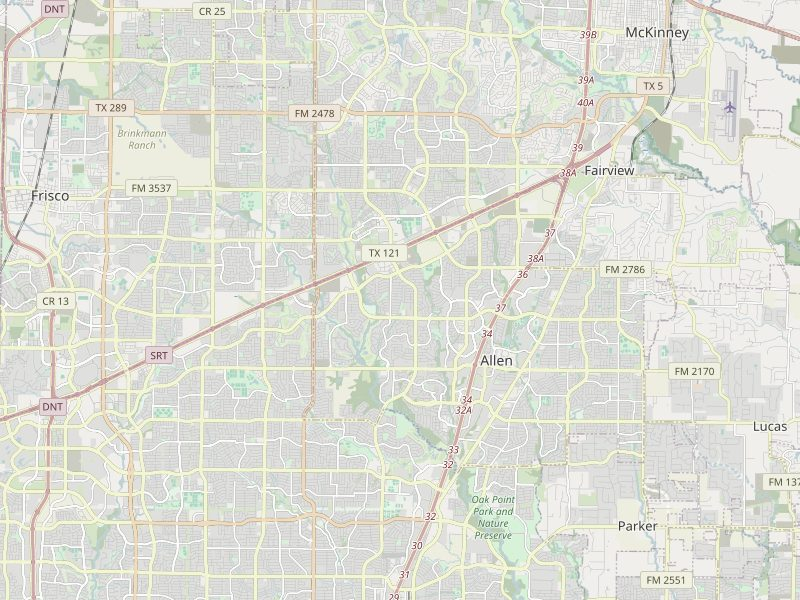
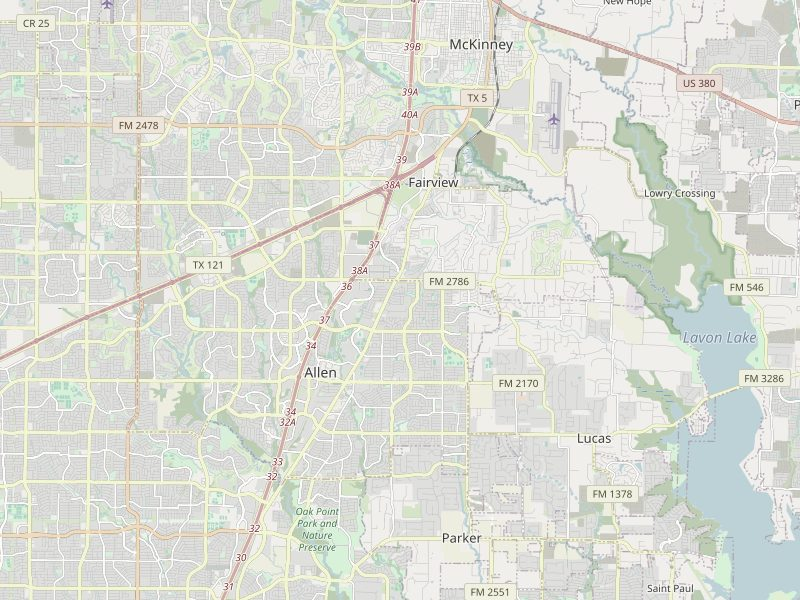
Full-width home map with the cities card and key map
- Home: the service-area map now spans the page. The cities we serve
  (Dallas, Carrollton and the rest) sit on a card at the left, the line
  map as a key at the top right; both stack above the map below 960 px.
  It uses a wide OpenStreetMap render in every build, since the cards
  would cover Google's own place card.
- City, area and contact maps: the key moves to the top-right corner;
  the static renders are reframed so no pins sit under it
- static_maps.py: each map sets its own size

diff --git a/static/assets/site.css b/static/assets/site.css
@@ -813,14 +813,14 @@ figure{margin:0}
 
 /* ── real map with the line map as its key ──────────────────────── */
 .map-duo{position:relative}
-.map-key{position:absolute;z-index:3;top:10px;left:10px;width:44%;padding:6px;background:var(--sheet);
+.map-key{position:absolute;z-index:3;top:10px;right:10px;width:44%;padding:6px;background:var(--sheet);
   border:1px solid var(--rule-2);box-shadow:0 2px 10px rgba(22,25,27,.12)}
 .map-key svg{display:block;width:100%;height:auto}
 .cv-key .cv-lbl{font-size:27px;letter-spacing:.03em}
 .cv-key .cv-sub{font-size:19px;letter-spacing:.05em}
 .cv-key .cv-road{stroke-width:2.2}
 .cv-key .cv-ring{stroke-width:2;stroke-dasharray:7 6}
-.map-real picture,.map-real img{position:absolute;inset:0;width:100%;height:100%;display:block}
+.map-real picture,.map-real img,.map-stage picture,.map-stage img{position:absolute;inset:0;width:100%;height:100%;display:block}
 .map-real img{object-fit:cover}
 .map-ring{position:absolute;inset:0;width:100%;height:100%;pointer-events:none}
 .map-ring circle{fill:rgba(160,85,42,.05);stroke:var(--cedar);stroke-width:2;stroke-dasharray:8 6}
@@ -848,6 +848,34 @@ figure{margin:0}
   .map-key{position:static;width:auto;margin-bottom:10px;box-shadow:none}
   .map-key ~ .map-box .pin.under-key{display:block}
   .pin > a,.pin > span{font-size:9.5px;padding:2px 5px 1px}
+}
+
+/* ── full-width map (home) ───────────────────────────────────────── */
+.map-sec{padding-bottom:clamp(40px,5vw,64px)}
+.map-wide{--mh:clamp(460px,46vw,680px);--edge:max(var(--gutter),calc((100% - var(--wrap)) / 2 + var(--gutter)));position:relative}
+.map-canvas{position:relative;height:var(--mh);overflow:hidden;background:var(--sheet-2);border-block:1px solid var(--rule-2)}
+.map-canvas iframe{position:absolute;inset:0;width:100%;height:100%;border:0;display:block;filter:grayscale(.2) contrast(1.02)}
+.map-stage{position:absolute;left:50%;top:50%;width:max(100%,calc(var(--mh) * 2.5));aspect-ratio:5/2;transform:translate(-50%,-50%)}
+.map-wide .map-areas,.map-wide .map-key{position:absolute;z-index:3;top:24px;background:var(--sheet);border:1px solid var(--rule-2);
+  box-shadow:0 6px 22px rgba(22,25,27,.16)}
+.map-wide .map-areas{left:var(--edge);width:min(380px,34%);padding:18px 18px 16px}
+.map-wide .map-key{right:var(--edge);width:min(340px,29%);padding:6px}
+.map-areas > .code{display:block;margin-bottom:12px}
+.map-areas .chips{gap:6px}
+.map-areas .chips a,.map-areas .chips span{min-height:34px;padding:0 10px;font-size:14px;gap:6px}
+.map-areas .help{margin:12px 0 6px !important;font-size:13px}
+.map-foot{padding-top:14px}
+@media(max-width:960px){
+  .map-wide{--mh:min(92vw,560px)}
+  .map-wide .map-areas,.map-wide .map-key{position:static;width:auto;box-shadow:none}
+  .map-wide .map-areas{margin:0 var(--gutter) 18px;padding:0;border:0;background:none}
+  .map-wide .map-key{margin:0 var(--gutter) 12px}
+}
+@media(min-width:621px) and (max-width:960px){
+  .map-wide{display:grid;grid-template-columns:minmax(0,1fr) minmax(0,330px);column-gap:24px;align-items:start}
+  .map-wide .map-areas{margin:0 0 20px var(--gutter)}
+  .map-wide .map-key{margin:0 var(--gutter) 20px 0}
+  .map-wide .map-canvas{grid-column:1 / -1}
 }
 
 /* ── trade cards with a photo ───────────────────────────────────── */

diff --git a/src/build.py b/src/build.py
@@ -396,49 +396,79 @@ def coverage_svg(ctx, current=None, key=False):
             f'<title id="cv-t">{"Key map" if key else "Schematic map"} of the North Dallas cities Keystone serves, centred on Plano</title>{"".join(parts)}</svg>')
 
 
-def real_map(ctx, map_id, place, current=None):
-    """Static OpenStreetMap render (src/static_maps.py) with the service cities pinned on top."""
+def map_layers(ctx, map_id, place, current=None, framed=True):
+    """Static OpenStreetMap render (src/static_maps.py) with the service cities pinned on top.
+    On framed maps the key covers the top-right corner: pins under it hide on wide screens
+    and labels beside it point left."""
     base = "assets/maps/" + map_id
+    w, h = static_maps.size(map_id)
     pins = []
     for c in CITIES:
         fx, fy = static_maps.project(map_id, *c["ll"])
         if not (0.03 < fx < 0.97 and 0.04 < fy < 0.96):
             continue
+        flip = fx > (0.74 if framed else 0.56) or (framed and fy < 0.52 and fx > 0.34)
         cls = ["pin"] + (["home"] if c["slug"] == "plano" else []) + (["cur"] if c["slug"] == current else []) \
-            + (["flip"] if fx > 0.74 else []) + (["under-key"] if fx < 0.48 and fy < 0.5 else [])
+            + (["flip"] if flip else []) + (["under-key"] if framed and fx > 0.52 and fy < 0.5 else [])
         label = (f'<span>{E(c["name"])}</span>' if c["slug"] == current
                  else f'<a href="{href(ctx, "service-areas/" + c["slug"] + "/")}">{E(c["name"])}</a>')
         pins.append(f'<li class="{" ".join(cls)}" style="left:{fx * 100:.1f}%;top:{fy * 100:.1f}%">{label}</li>')
     ring = ""
-    if map_id == "collin-county":     # 10-mile ring around home base
+    if map_id.startswith("collin-county"):     # 10-mile ring around home base
         (fx, fy), r = static_maps.project(map_id, *static_maps.PLANO["ll"]), static_maps.px_per_mile(map_id) * 10
-        cx, cy = fx * static_maps.W, fy * static_maps.H
-        ring = (f'<svg class="map-ring" viewBox="0 0 {static_maps.W} {static_maps.H}" aria-hidden="true">'
-                f'<circle cx="{cx:.0f}" cy="{cy:.0f}" r="{r:.0f}"/><text x="{cx:.0f}" y="{cy - r - 7:.0f}">10 MI</text></svg>')
-    return (f'<div class="map-box map-real"><picture><source type="image/webp" srcset="{href(ctx, base + ".webp")}">'
-            f'<img src="{href(ctx, base + ".jpg")}" width="{static_maps.W}" height="{static_maps.H}" loading="lazy" decoding="async" '
+        ring = (f'<svg class="map-ring" viewBox="0 0 {w} {h}" aria-hidden="true">'
+                f'<circle cx="{fx * w:.0f}" cy="{fy * h:.0f}" r="{r:.0f}"/><text x="{fx * w:.0f}" y="{fy * h - r - 7:.0f}">10 MI</text></svg>')
+    return (f'<picture><source type="image/webp" srcset="{href(ctx, base + ".webp")}">'
+            f'<img src="{href(ctx, base + ".jpg")}" width="{w}" height="{h}" loading="lazy" decoding="async" '
             f'alt="Street map of {A(place)} with the cities Keystone serves marked"></picture>{ring}'
-            f'<ul class="map-pins" aria-label="Service cities">{"".join(pins)}</ul>'
-            f'<a class="map-attr" href="https://www.openstreetmap.org/copyright" target="_blank" rel="noopener">© OpenStreetMap contributors</a></div>')
+            f'<ul class="map-pins" aria-label="Service cities">{"".join(pins)}</ul>')
+
+
+OSM_CREDIT = '<a class="map-attr" href="https://www.openstreetmap.org/copyright" target="_blank" rel="noopener">© OpenStreetMap contributors</a>'
+
+
+def gmaps_link(query):
+    link = f"https://www.google.com/maps/search/?api=1&query={urllib.parse.quote_plus(query)}"
+    return f'<a href="{A(link)}" target="_blank" rel="noopener">Open in Google Maps {IC["ext"]}<span class="sr-only"> (opens in a new tab)</span></a>'
+
+
+def gmap_frame(query, zoom, place):
+    q = urllib.parse.quote_plus(query)
+    return (f'<iframe src="https://maps.google.com/maps?q={q}&amp;t=m&amp;z={zoom}&amp;output=embed&amp;iwloc=near" '
+            f'title="Google Map of {A(place)}" loading="lazy" referrerpolicy="no-referrer-when-downgrade" allowfullscreen></iframe>')
+
+
+def has_static_map(map_id):
+    return os.path.exists(os.path.join(ROOT, "static", "assets", "maps", map_id + ".jpg"))
 
 
 def gmap(ctx, query, zoom, place, note, current=None):
-    """Real map of a place with the line map as a key in its top-left corner (above it on phones).
+    """Real map of a place with the line map as a key in its top-right corner (above it on phones).
     Live builds embed Google's keyless map (lazy-loaded); the artifact preview can't load
     third-party frames, so it shows a static OpenStreetMap render with the cities pinned."""
-    q = urllib.parse.quote_plus(query)
-    link = f"https://www.google.com/maps/search/?api=1&query={q}"
     map_id = current or "collin-county"
-    if PREVIEW and not os.path.exists(os.path.join(ROOT, "static", "assets", "maps", map_id + ".jpg")):
+    if PREVIEW and not has_static_map(map_id):
         box = (f'<div class="map-box map-fallback">{coverage_svg(ctx, current)}</div>'
                f'<p class="map-note">Preview: schematic shown · the live Google Map of {E(place)} loads here on the published site</p>')
     else:
-        real = real_map(ctx, map_id, place, current) if PREVIEW else (
-            f'<div class="map-box"><iframe src="https://maps.google.com/maps?q={q}&amp;t=m&amp;z={zoom}&amp;output=embed&amp;iwloc=near" '
-            f'title="Google Map of {A(place)}" loading="lazy" referrerpolicy="no-referrer-when-downgrade" allowfullscreen></iframe></div>')
+        real = (f'<div class="map-box map-real">{map_layers(ctx, map_id, place, current)}{OSM_CREDIT}</div>' if PREVIEW
+                else f'<div class="map-box">{gmap_frame(query, zoom, place)}</div>')
         box = f'<div class="map-duo"><div class="map-key">{coverage_svg(ctx, current, key=True)}</div>{real}</div>'
     return (f'<figure class="sheet-frame map-frame"><span class="sheet-tag">Map · {E(place)}</span>{box}'
-            f'<figcaption class="map-cap"><span>{E(note)}</span><a href="{A(link)}" target="_blank" rel="noopener">Open in Google Maps {IC["ext"]}<span class="sr-only"> (opens in a new tab)</span></a></figcaption></figure>')
+            f'<figcaption class="map-cap"><span>{E(note)}</span>{gmaps_link(query)}</figcaption></figure>')
+
+
+def wide_map(ctx, note):
+    """Full-width Collin County map for the home page: the cities we serve on a card at the left,
+    the line map as a key at the top right. Below 960 px both stack above the map. Every build
+    uses the static render here, since the cards would cover Google's own place card."""
+    place, query = "Collin County, TX", "Collin County, Texas"
+    if not has_static_map("collin-county-wide"):
+        return f'<div class="wrap">{areas_chips(ctx)}<div style="margin-top:28px">{gmap(ctx, query, 10, place, note)}</div></div>'
+    canvas = f'<div class="map-stage">{map_layers(ctx, "collin-county-wide", place, framed=False)}</div>{OSM_CREDIT}'
+    return (f'<div class="map-wide"><div class="map-areas"><span class="code">Cities we serve</span>{areas_chips(ctx)}</div>'
+            f'<div class="map-key">{coverage_svg(ctx, key=True)}</div><div class="map-canvas">{canvas}</div></div>'
+            f'<div class="wrap map-cap map-foot"><span>{E(note)}</span>{gmaps_link(query)}</div>')
 
 
 def hero_media(ctx):
@@ -653,12 +683,10 @@ def build_home():
 <div class="commit">{com}</div>
 </div></section>
 
-<section class="sec"><div class="wrap split">
-<div><span class="code">Service areas</span><h2 style="margin:14px 0 16px">Based in Plano, working across Collin County</h2>
-<p class="lede" style="margin-bottom:22px">Our crews work from Plano across North Dallas. Every city page covers the local details — HOAs, alleys, permits and soil.</p>
-{areas_chips(ctx)}</div>
-{gmap(ctx, "Collin County, Texas", 10, "Collin County, TX", "Based in Plano · serving Collin County & North Dallas")}
-</div></section>
+<section class="sec map-sec"><div class="wrap"><div class="sec-head"><span class="code">Service areas</span><h2>Based in Plano, working across Collin County</h2>
+<p class="lede">Our crews work from Plano across North Dallas. Every city page covers the local details — HOAs, alleys, permits and soil.</p></div></div>
+{wide_map(ctx, "Based in Plano · serving Collin County & North Dallas")}
+</section>
 
 <section class="sec sheet rule-top"><div class="wrap measure">{faq_block(HOME_FAQS)}</div></section>
 {cta_band(ctx)}
@@ -1126,12 +1154,18 @@ def vercel():
     return json.dumps(cfg, indent=2) + "\n"
 
 
+def _live_maps_only(folder, names):
+    """Live pages embed Google Maps except the home page's wide map, so only that render ships."""
+    if PREVIEW or os.path.basename(folder) != "maps":
+        return []
+    return [n for n in names if not n.startswith("collin-county-wide.")]
+
+
 def main():
     if os.path.isdir(OUT):
         shutil.rmtree(OUT)
     os.makedirs(OUT)
-    shutil.copytree(os.path.join(ROOT, "static", "assets"), os.path.join(OUT, "assets"),
-                    ignore=None if PREVIEW else shutil.ignore_patterns("maps"))     # live pages embed Google Maps
+    shutil.copytree(os.path.join(ROOT, "static", "assets"), os.path.join(OUT, "assets"), ignore=_live_maps_only)
     build_home()
     build_services_index()
     for s in SILOS:

diff --git a/src/static_maps.py b/src/static_maps.py
@@ -1,12 +1,13 @@
-"""Real street maps for the preview build, rendered once from OpenStreetMap tiles.
+"""Real street maps, rendered once from OpenStreetMap tiles.
 
     python3 src/static_maps.py      # fetches tiles (cached in .tiles/), writes static/assets/maps/*.{webp,jpg}
 
-The artifact preview can't load Google's map frame, so preview pages show these
-maps with the service cities pinned on top (build.py places the pins with
-project()). Live builds still embed Google Maps. Map data © OpenStreetMap
+The home page's full-width map uses the wide render in every build. The artifact
+preview can't load Google's map frame, so its city, area and contact pages use
+these too, with the service cities pinned on top (build.py places the pins with
+project()); live builds embed Google Maps there. Map data © OpenStreetMap
 contributors, ODbL; every map shows that credit. Run it again only when a city
-or a framing below changes: it fetches about 20 tiles per map.
+or a framing below changes: it fetches 20 to 40 tiles per map.
 """
 import io, math, os, sys, time, urllib.request
 sys.path.insert(0, os.path.dirname(os.path.abspath(__file__)))
@@ -14,15 +15,17 @@ from data_site import CITIES
 
 ROOT = os.path.dirname(os.path.dirname(os.path.abspath(__file__)))
 OUT = os.path.join(ROOT, "static", "assets", "maps")
-W, H = 800, 600
+W, H = 800, 600                     # framed maps; the home page's wide map sets its own size
 TILES = "https://tile.openstreetmap.org/{z}/{x}/{y}.png"
 UA = "KeystoneFenceSiteBuilder/1.0 (+https://github.com/praveenkumarsankar01-cmd/Keystone-fence)"
 PLANO = next(c for c in CITIES if c["slug"] == "plano")
 
-# key -> (lat, lon, zoom, fx, fy): that point sits at fraction (fx, fy) of the frame.
-# The anchors sit right of centre so the key map in the top-left corner covers no pins.
-MAPS = {"collin-county": (*PLANO["ll"], 11, 0.73, 0.71)}
-MAPS.update({c["slug"]: (*c["ll"], 12, 0.62, 0.6) for c in CITIES})
+# key -> (lat, lon, zoom, fx, fy, width, height): that point sits at fraction (fx, fy) of the frame.
+# Framed maps keep their pins left of centre, clear of the key map in the top-right corner;
+# the wide map centres the service area between the cities card (left) and the key (right).
+MAPS = {"collin-county": (*PLANO["ll"], 11, 0.36, 0.71, W, H),
+        "collin-county-wide": (33.0927, -96.7196, 11, 0.5, 0.5, 1800, 720)}
+MAPS.update({c["slug"]: (*c["ll"], 12, 0.4, 0.62, W, H) for c in CITIES})
 
 
 def _world(lat, lon, z):
@@ -31,30 +34,36 @@ def _world(lat, lon, z):
     return (lon + 180) / 360 * n, (0.5 - math.log((1 + s) / (1 - s)) / (4 * math.pi)) * n
 
 
+def size(key):
+    return MAPS[key][5:]
+
+
 def _origin(key):
-    lat, lon, z, fx, fy = MAPS[key]
+    lat, lon, z, fx, fy, w, h = MAPS[key]
     x, y = _world(lat, lon, z)
-    return x - fx * W, y - fy * H, z
+    return x - fx * w, y - fy * h, z
 
 
 def project(key, lat, lon):
     """Fraction (0-1) across and down the map where lat/lon falls."""
     x0, y0, z = _origin(key)
     x, y = _world(lat, lon, z)
-    return (x - x0) / W, (y - y0) / H
+    w, h = size(key)
+    return (x - x0) / w, (y - y0) / h
 
 
 def px_per_mile(key):
-    lat, _, z, _, _ = MAPS[key]
+    lat, z = MAPS[key][0], MAPS[key][2]
     return 1609.344 / (156543.03392 * math.cos(math.radians(lat)) / 2 ** z)
 
 
 def render(key, cache):
     from PIL import Image, ImageEnhance
     x0, y0, z = _origin(key)
-    canvas = Image.new("RGB", (W, H))
-    for tx in range(int(x0 // 256), int((x0 + W) // 256) + 1):
-        for ty in range(int(y0 // 256), int((y0 + H) // 256) + 1):
+    w, h = size(key)
+    canvas = Image.new("RGB", (w, h))
+    for tx in range(int(x0 // 256), int((x0 + w) // 256) + 1):
+        for ty in range(int(y0 // 256), int((y0 + h) // 256) + 1):
             path = os.path.join(cache, f"{z}-{tx}-{ty}.png")
             if not os.path.exists(path):
                 req = urllib.request.Request(TILES.format(z=z, x=tx, y=ty), headers={"User-Agent": UA})
@@ -63,7 +72,7 @@ def render(key, cache):
             canvas.paste(Image.open(path).convert("RGB"), (round(tx * 256 - x0), round(ty * 256 - y0)))
     # Quieter colours so the pins and the site's palette lead; streets and labels stay legible.
     canvas = ImageEnhance.Color(canvas).enhance(0.55)
-    canvas = Image.blend(canvas, Image.new("RGB", (W, H), (241, 241, 236)), 0.12)
+    canvas = Image.blend(canvas, Image.new("RGB", (w, h), (241, 241, 236)), 0.12)
     canvas.save(os.path.join(OUT, key + ".webp"), "WEBP", quality=80, method=6)
     canvas.save(os.path.join(OUT, key + ".jpg"), "JPEG", quality=82, optimize=True, progressive=True)
     print(key, f"z{z}", f"{os.path.getsize(os.path.join(OUT, key + '.webp')) // 1024} KB webp")

diff --git a/README.md b/README.md
@@ -34,9 +34,11 @@ Deploy on Vercel from this repo: `vercel.json` builds with `python3 src/build.py
   swaps in real footage (trimmed, 1280x720, audio removed).
 - **Photos** — drop images into `photos/<key>/` (see `photos/README.txt`). The build rotates
   them upright, strips all metadata (GPS included) and writes 800/1600 px WebP + JPEG.
-- **Maps** — every map carries the line map of the service area as a key in its top-left corner
-  (stacked above it on phones). Live builds embed Google Maps (keyless); the preview build shows
-  street maps rendered once from OpenStreetMap by `python3 src/static_maps.py`, with the cities pinned.
+- **Maps** — the home page has a full-width street map with the cities card on the left and the line
+  map as a key at the top right. City, area and contact pages frame their map with the same key in its
+  top-right corner (stacked above the map on phones). Street maps are rendered once from
+  OpenStreetMap by `python3 src/static_maps.py`, with the cities pinned; live city, area and contact
+  pages embed Google Maps (keyless) instead, since the artifact preview can't load it.
 
 ## Checks
 

diff --git a/photos/CREDITS.md b/photos/CREDITS.md
@@ -48,7 +48,7 @@ serves.
 
 ## Maps
 
-`static/assets/maps/*.{webp,jpg}` (the preview build's street maps) are rendered by
+`static/assets/maps/*.{webp,jpg}` (the home page's wide map, and every map in the preview build) are rendered by
 `src/static_maps.py` from [OpenStreetMap](https://www.openstreetmap.org) tiles. Map data
 © OpenStreetMap contributors, available under the
 [Open Database License](https://www.openstreetmap.org/copyright); each map carries that credit
